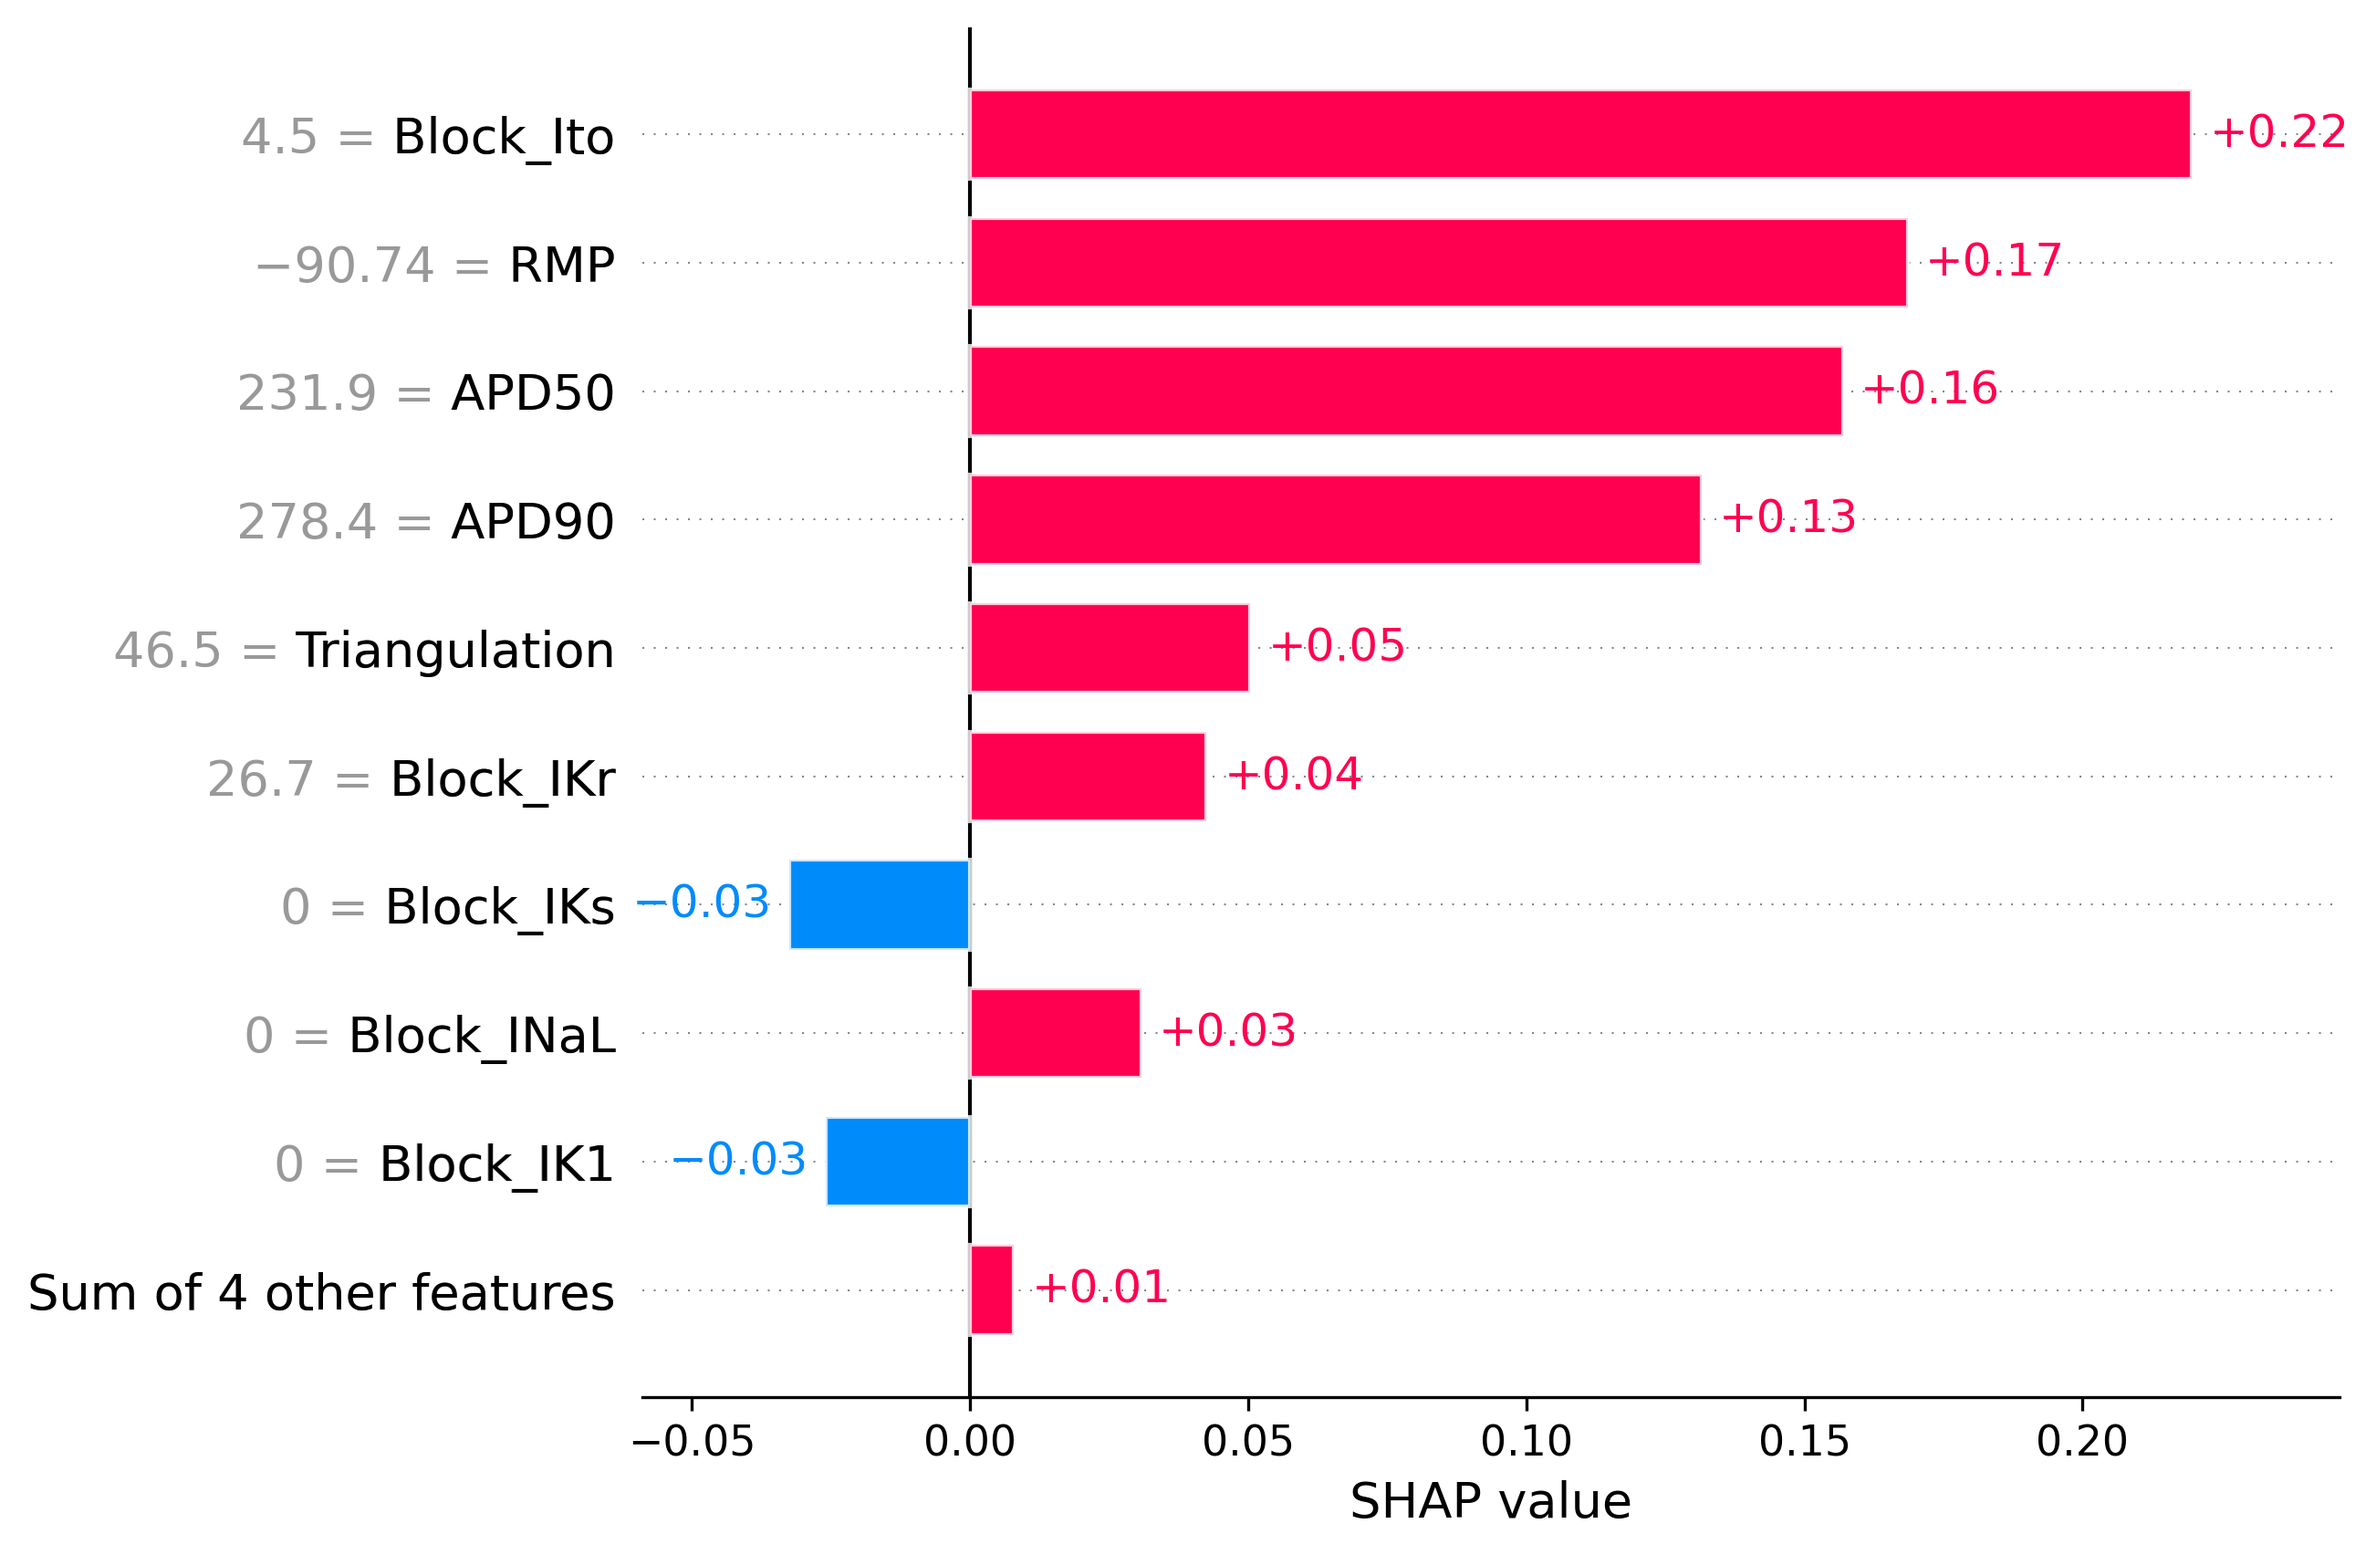
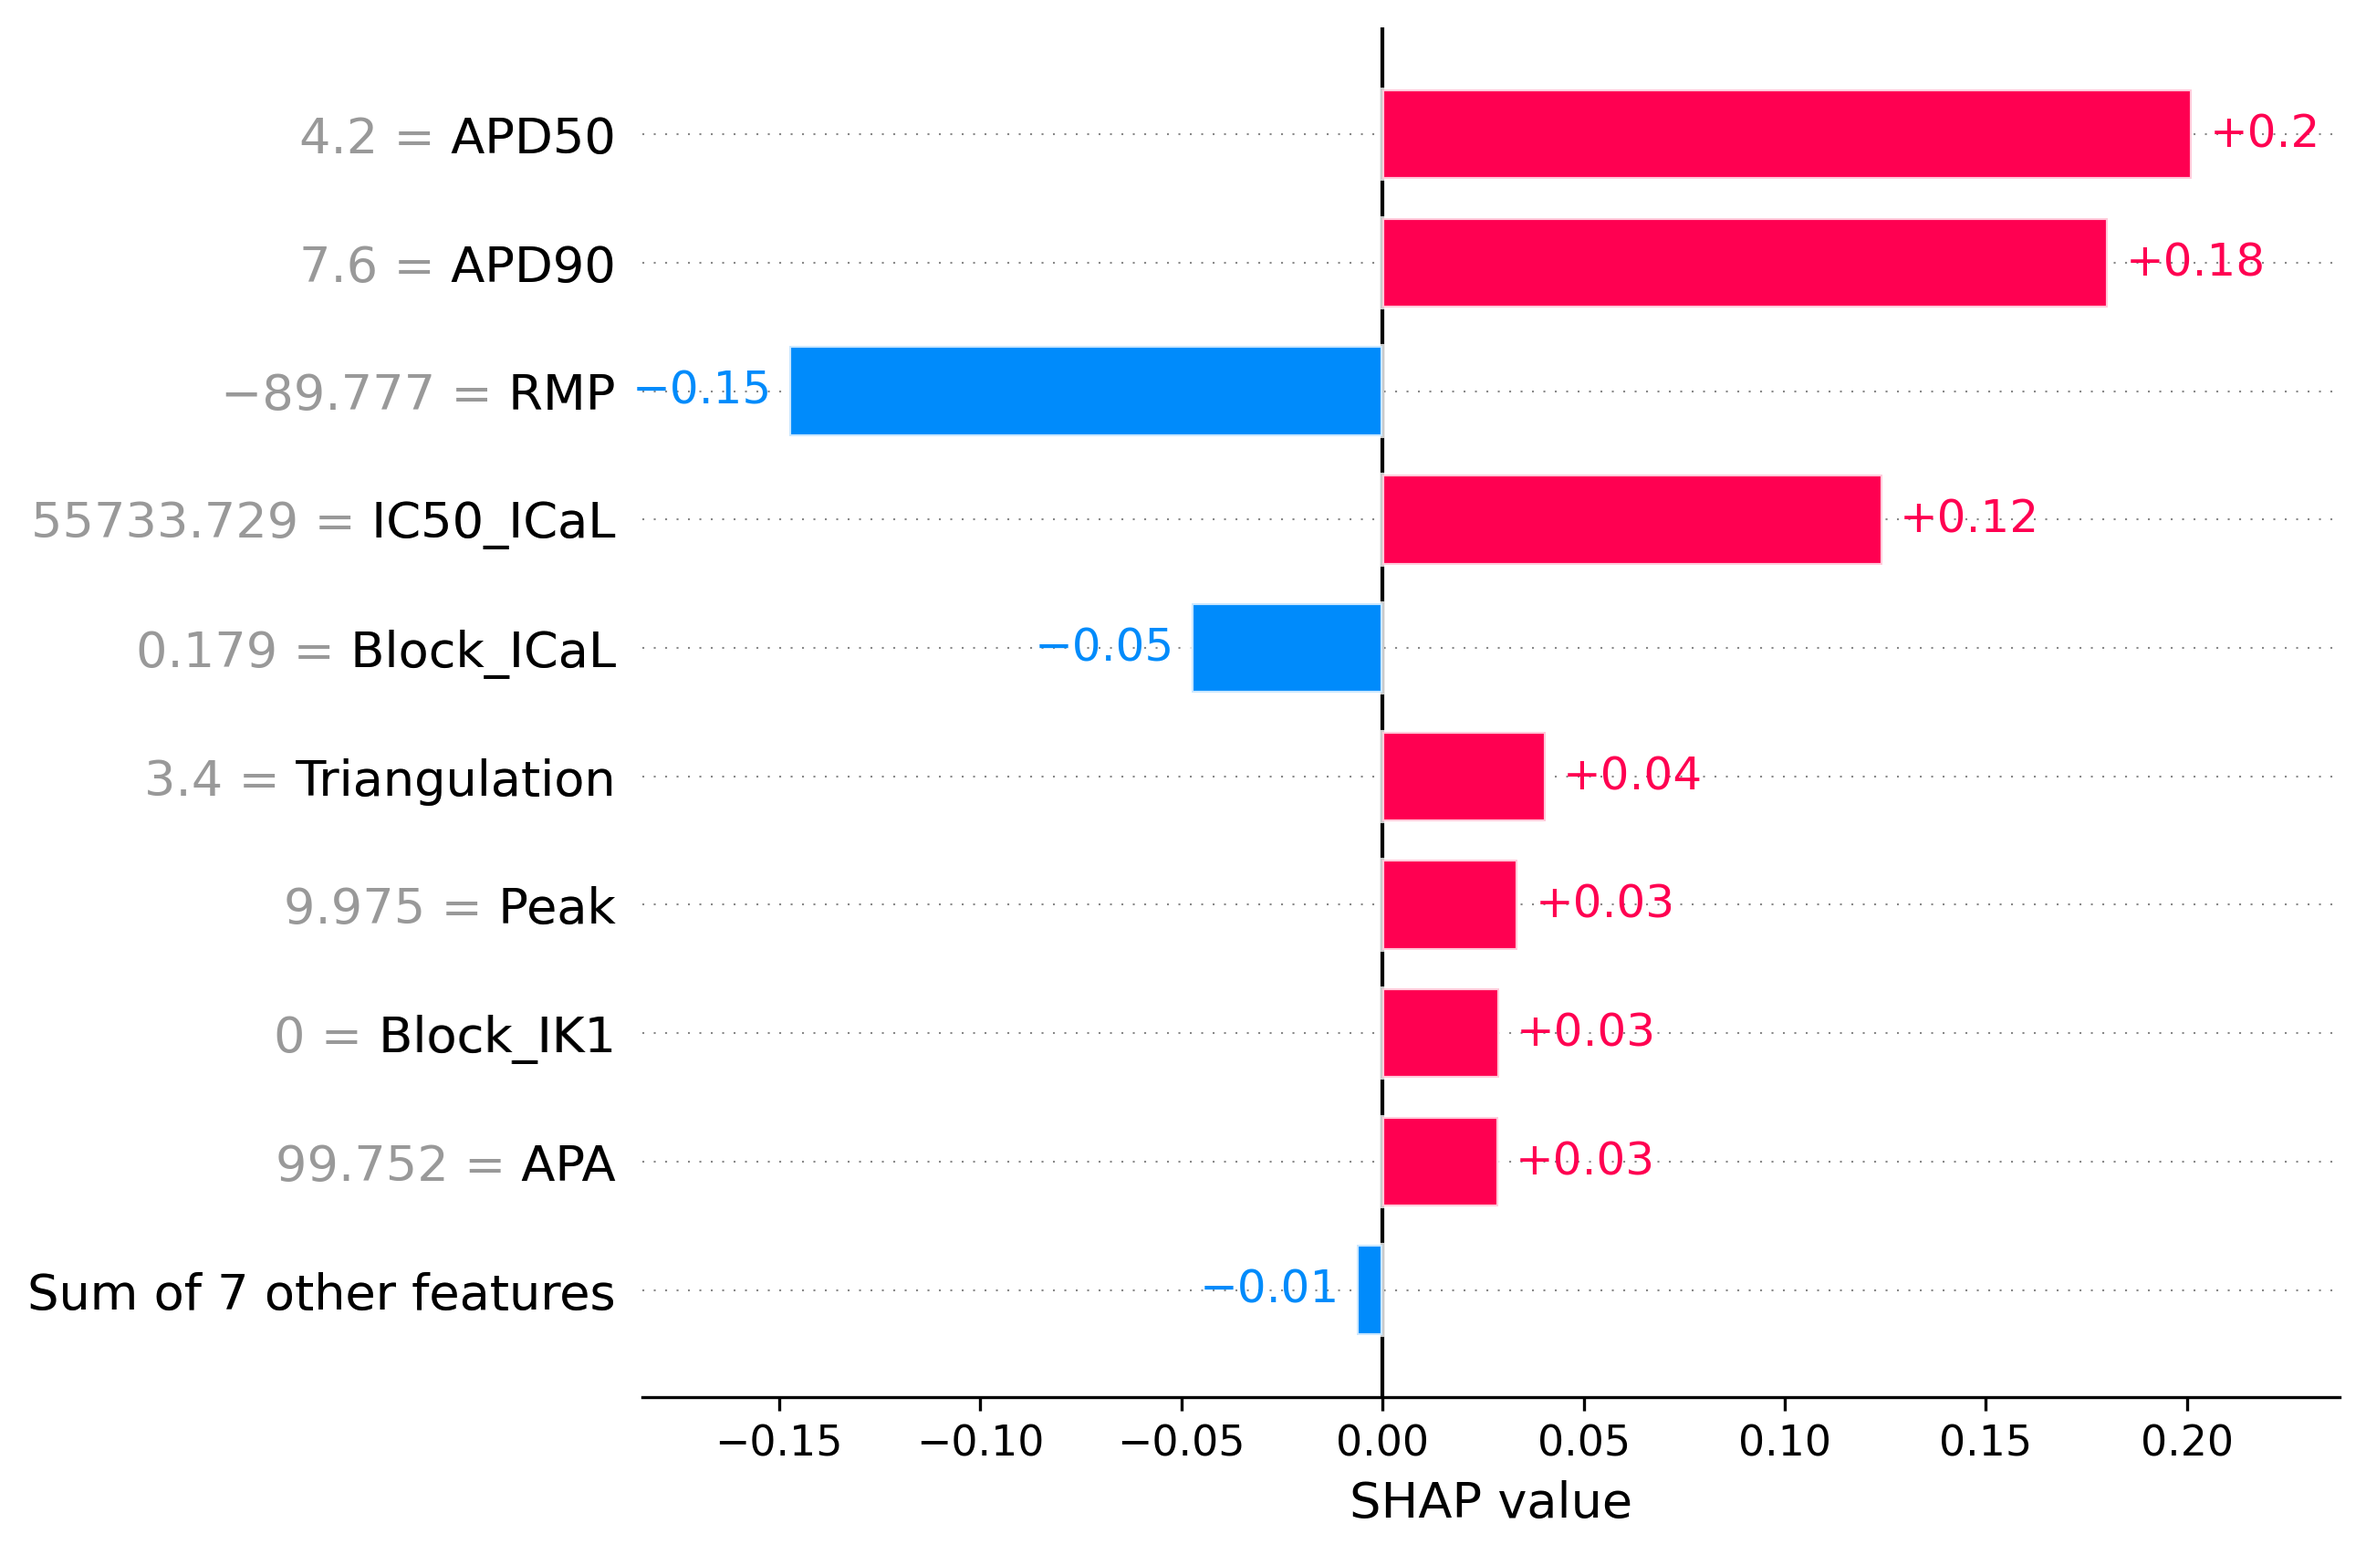
Integrate XAI into prediction pipeline

diff --git a/pipeline/prediction_pipeline.py b/pipeline/prediction_pipeline.py
@@ -73,28 +73,57 @@ class PredictionPipeline:
         except Exception as exc:
             raise PipelineError(f"Dose-response calculation failed: {exc}")
 
-        # Step 3: ORd Simulation (run control and drug simulations)
+        # -------------------------------------------------
+        # Step 3: ORd Simulation (or Skip Simulation)
+        # -------------------------------------------------
+
         time = None
         voltage = None
         control_time = None
         control_voltage = None
-        try:
-            # Import simulator lazily so missing optional deps don't break package import
-            from classification_backend.simulation.ord_simulator import ORDSimulator
-            # Run control (no block)
-            ctrl_sim = ORDSimulator()
-            ctrl_result = ctrl_sim.run()
-            control_time = ctrl_result["environment.time"]
-            control_voltage = ctrl_result["membrane.v"]
 
-            # Run drug simulation on a fresh simulator instance
-            drug_sim = ORDSimulator()
-            # Map blocks: herg -> IKr, nav -> INa, cav -> ICaL
-            herg_block = float(dose_payload.get("herg_block", 0.0))
-            nav_block = float(dose_payload.get("nav_block", 0.0))
-            cav_block = float(dose_payload.get("cav_block", 0.0))
+        herg_block = float(dose_payload.get("herg_block", 0.0))
+        nav_block = float(dose_payload.get("nav_block", 0.0))
+        cav_block = float(dose_payload.get("cav_block", 0.0))
 
-            drug_sim.apply_channel_blocks(
+        skip_sim = payload.get("skip_simulation", False)
+
+        if skip_sim:
+            warnings.warn("Skipping ORd simulation. Using synthetic waveform.")
+
+            import numpy as np
+
+            control_time = np.linspace(0, 1000, 10001)
+            control_voltage = -90 + 100 * np.exp(-((control_time - 50) / 5) ** 2)
+
+            herg_hill = HillEquation(ic50_nm=float(ic50_preds["herg"]["IC50_nM"]))      
+            nav_hill = HillEquation(ic50_nm=float(ic50_preds["nav"]["IC50_nM"]))
+            cav_hill = HillEquation(ic50_nm=float(ic50_preds["cav"]["IC50_nM"]))
+
+            herg_scale = herg_hill.conductance_scaling(dose_nm)
+            nav_scale = nav_hill.conductance_scaling(dose_nm)
+            cav_scale = cav_hill.conductance_scaling(dose_nm)
+
+            avg_scale = (herg_scale + nav_scale + cav_scale) / 3.0
+
+            time = control_time
+            voltage = control_voltage * avg_scale
+
+        else:
+            try:
+                from classification_backend.simulation.ord_simulator import ORDSimulator
+
+                # Control simulation
+                ctrl_sim = ORDSimulator()
+                ctrl_result = ctrl_sim.run()
+
+                control_time = ctrl_result["environment.time"]
+                control_voltage = ctrl_result["membrane.v"]
+
+                # Drug simulation
+                drug_sim = ORDSimulator()
+
+                drug_sim.apply_channel_blocks(
                 ikr=herg_block,
                 ina=nav_block,
                 inal=0.0,
@@ -102,38 +131,15 @@ class PredictionPipeline:
                 iks=0.0,
                 ik1=0.0,
                 ito=0.0,
-            )
-            sim_result = drug_sim.run()
-            time = sim_result["environment.time"]
-            voltage = sim_result["membrane.v"]
+                )
 
-        except ImportError as exc:
-            # Optional dependency missing (myokit). Provide helpful message and
-            # allow tests to run if caller set skip_simulation flag.
-            if payload.get("skip_simulation"):
-                warnings.warn("myokit not installed — using synthetic AP waveform for testing")
-                import numpy as _np
+                sim_result = drug_sim.run()
 
-                control_time = _np.linspace(0, 1000, 10001)
-                control_voltage = -90 + 100 * _np.exp(-((control_time - 50) / 5) ** 2)
+                time = sim_result["environment.time"]
+                voltage = sim_result["membrane.v"]
 
-                # Create drug waveform by scaling amplitude using HillEquation conductance scaling
-                herg_hill = HillEquation(ic50_nm=float(ic50_preds["herg"]["IC50_nM"]))
-                nav_hill = HillEquation(ic50_nm=float(ic50_preds["nav"]["IC50_nM"]))
-                cav_hill = HillEquation(ic50_nm=float(ic50_preds["cav"]["IC50_nM"]))
-
-                herg_scale = herg_hill.conductance_scaling(dose_nm)
-                nav_scale = nav_hill.conductance_scaling(dose_nm)
-                cav_scale = cav_hill.conductance_scaling(dose_nm)
-
-                avg_scale = float((herg_scale + nav_scale + cav_scale) / 3.0)
-
-                time = control_time
-                voltage = control_voltage * avg_scale
-            else:
-                raise PipelineError("ORd simulator dependency missing: myokit. Install myokit or run with skip_simulation=True")
-        except Exception as exc:
-            raise PipelineError(f"ORd simulation failed: {exc}")
+            except Exception as exc:
+                raise PipelineError(f"ORd simulation failed: {exc}")
 
         # Ensure block variables exist (set from dose_payload)
         herg_block = float(dose_payload.get("herg_block", 0.0))
@@ -263,7 +269,8 @@ class PredictionPipeline:
 
             "xai_input": xai_input,
 
-            "xai": xai_result,
+            "xai_output": xai_result
+            
         }
 
         return result

diff --git a/classification_backend/xai/run_Xai.py b/classification_backend/xai/run_Xai.py
@@ -32,6 +32,9 @@ FEATURE_NAMES = [
     "Block_IKs",
     "Block_IK1",
     "Block_Ito",
+    "IC50_IKr",
+    "IC50_INa",
+    "IC50_ICaL",
 ]
 
 
@@ -84,13 +87,22 @@ class XAIPipeline:
             shap_values=class_explanation.values,
         )
 
+        print(type(prediction["prediction"]))
+        print(type(prediction["confidence"]))
+        print(type(prediction["probabilities"]))
+        print(type(class_explanation.values))
+
         return {
 
-            "prediction": prediction["prediction"],
+            "prediction": int(prediction["prediction"]),
 
-            "confidence": prediction["confidence"],
+            "confidence": float(prediction["confidence"]),
 
-            "probabilities": prediction["probabilities"],
+            "probabilities": (
+                prediction["probabilities"].tolist()
+                if hasattr(prediction["probabilities"], "tolist")
+                else prediction["probabilities"]
+            ),
 
             "bar_plot": str(bar_plot),
 
@@ -98,8 +110,11 @@ class XAIPipeline:
 
             "report": str(report_path),
 
-            "shap_values": class_explanation.values,
-
+            "shap_values": (
+                class_explanation.values.tolist()
+                if hasattr(class_explanation.values, "tolist")
+                else class_explanation.values
+            ),
         }
 
 

diff --git a/classification_backend/xai/model_loader.py b/classification_backend/xai/model_loader.py
@@ -26,9 +26,14 @@ class ModelLoader:
                 f"Model not found:\n{self.model_path}"
             )
 
-        model = joblib.load(self.model_path)
+        bundle = joblib.load(self.model_path)
 
         print("\nModel loaded successfully.")
         print(f"Path: {self.model_path}")
 
-        return model
+    # If the pickle is a bundle, extract the classifier
+        if isinstance(bundle, dict):
+            print("Bundle keys:", bundle.keys())
+            return bundle["model"]
+
+        return bundle
